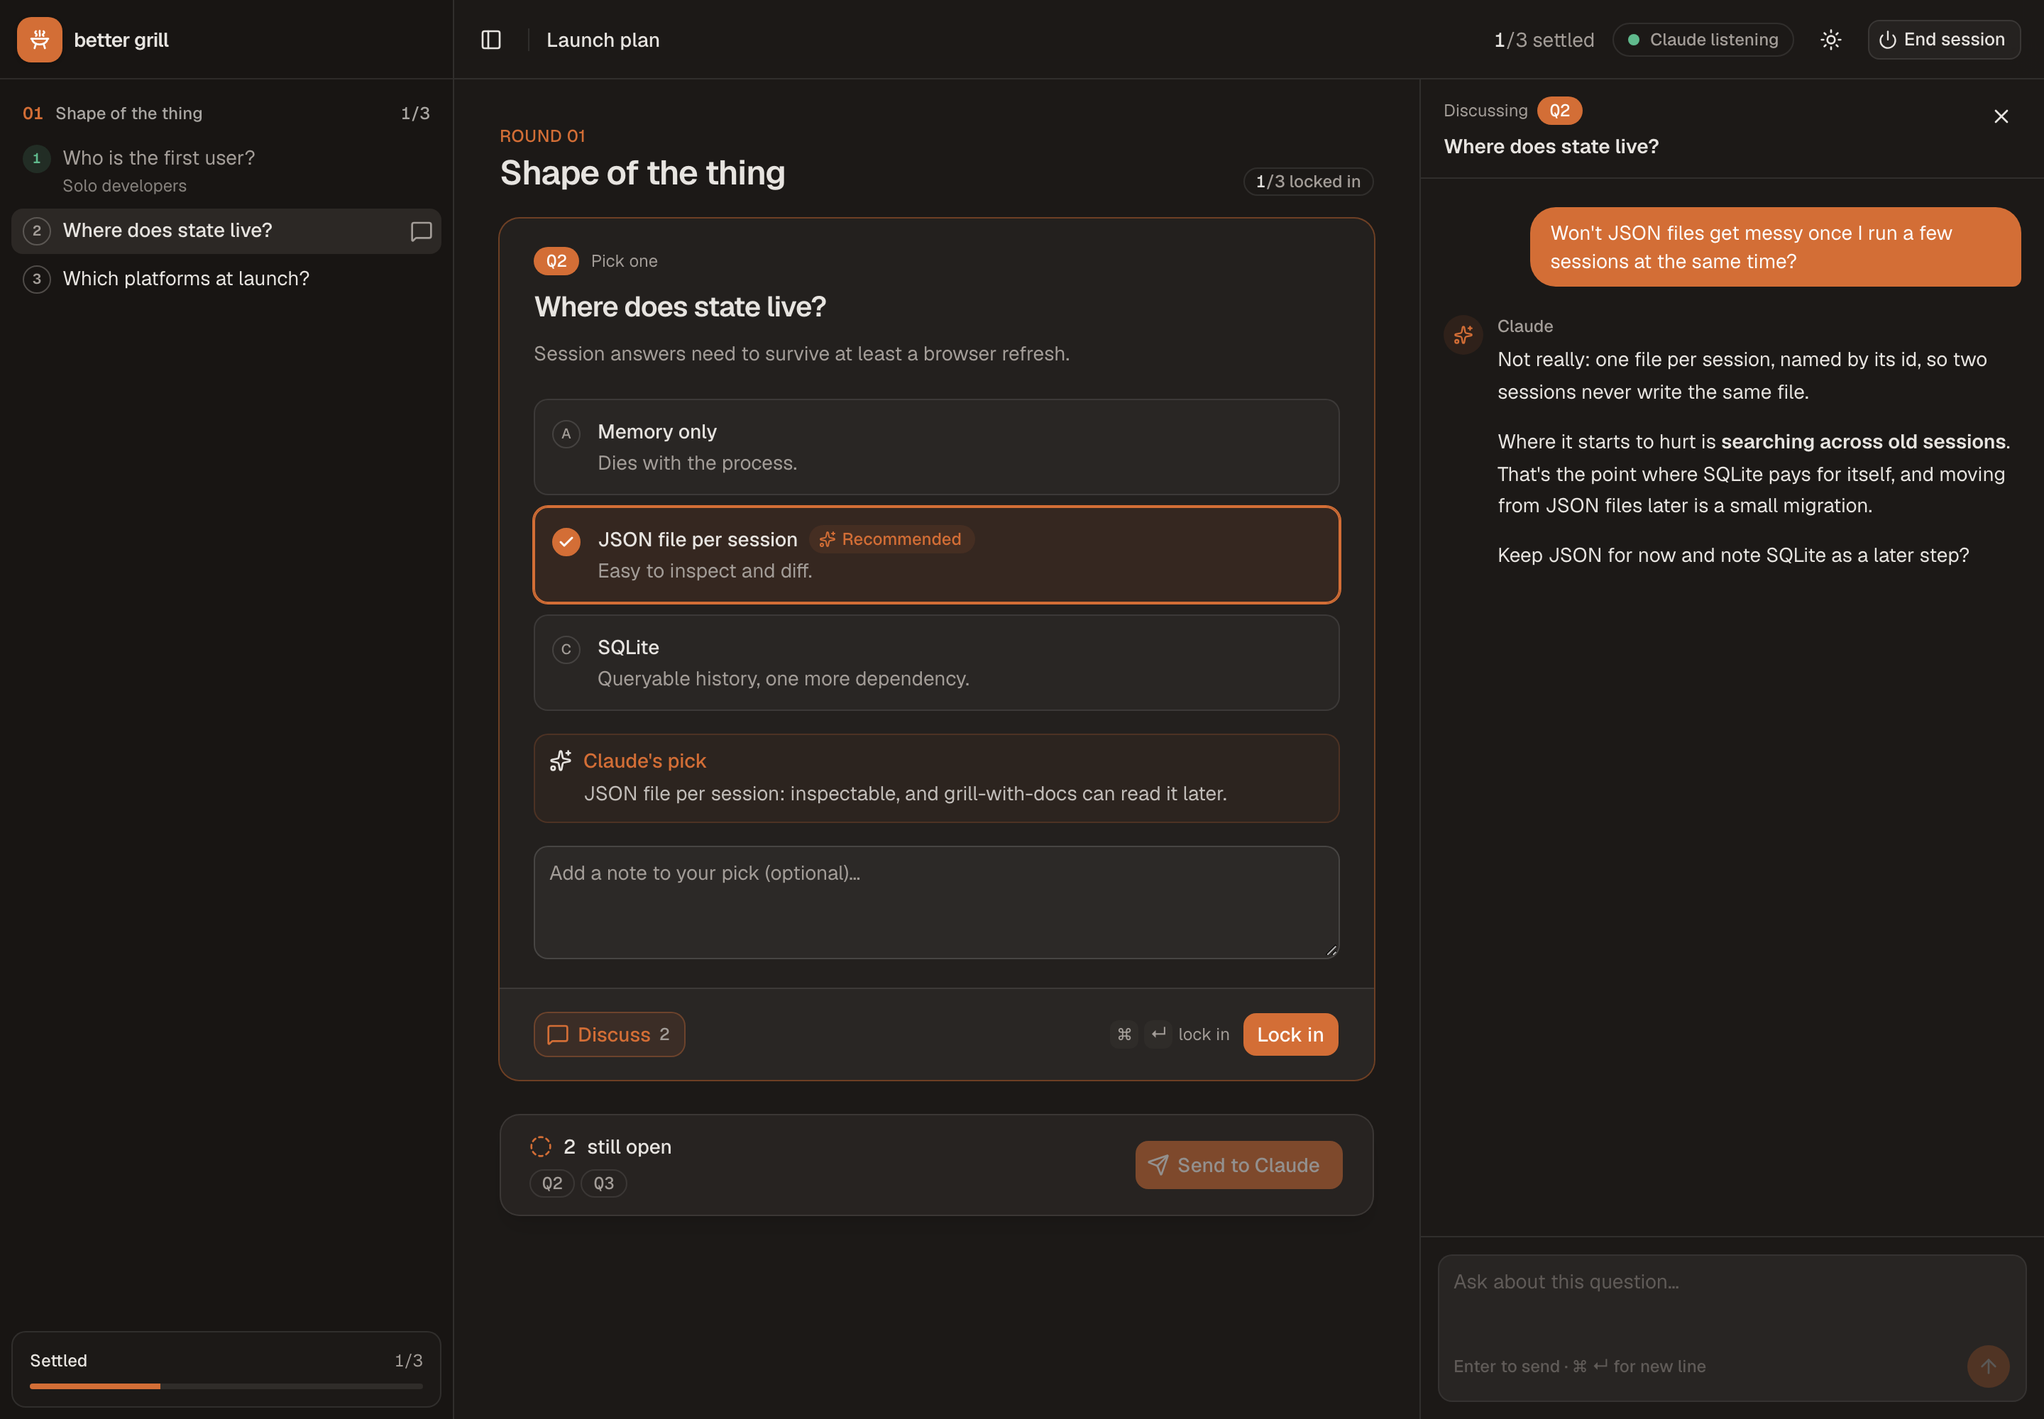
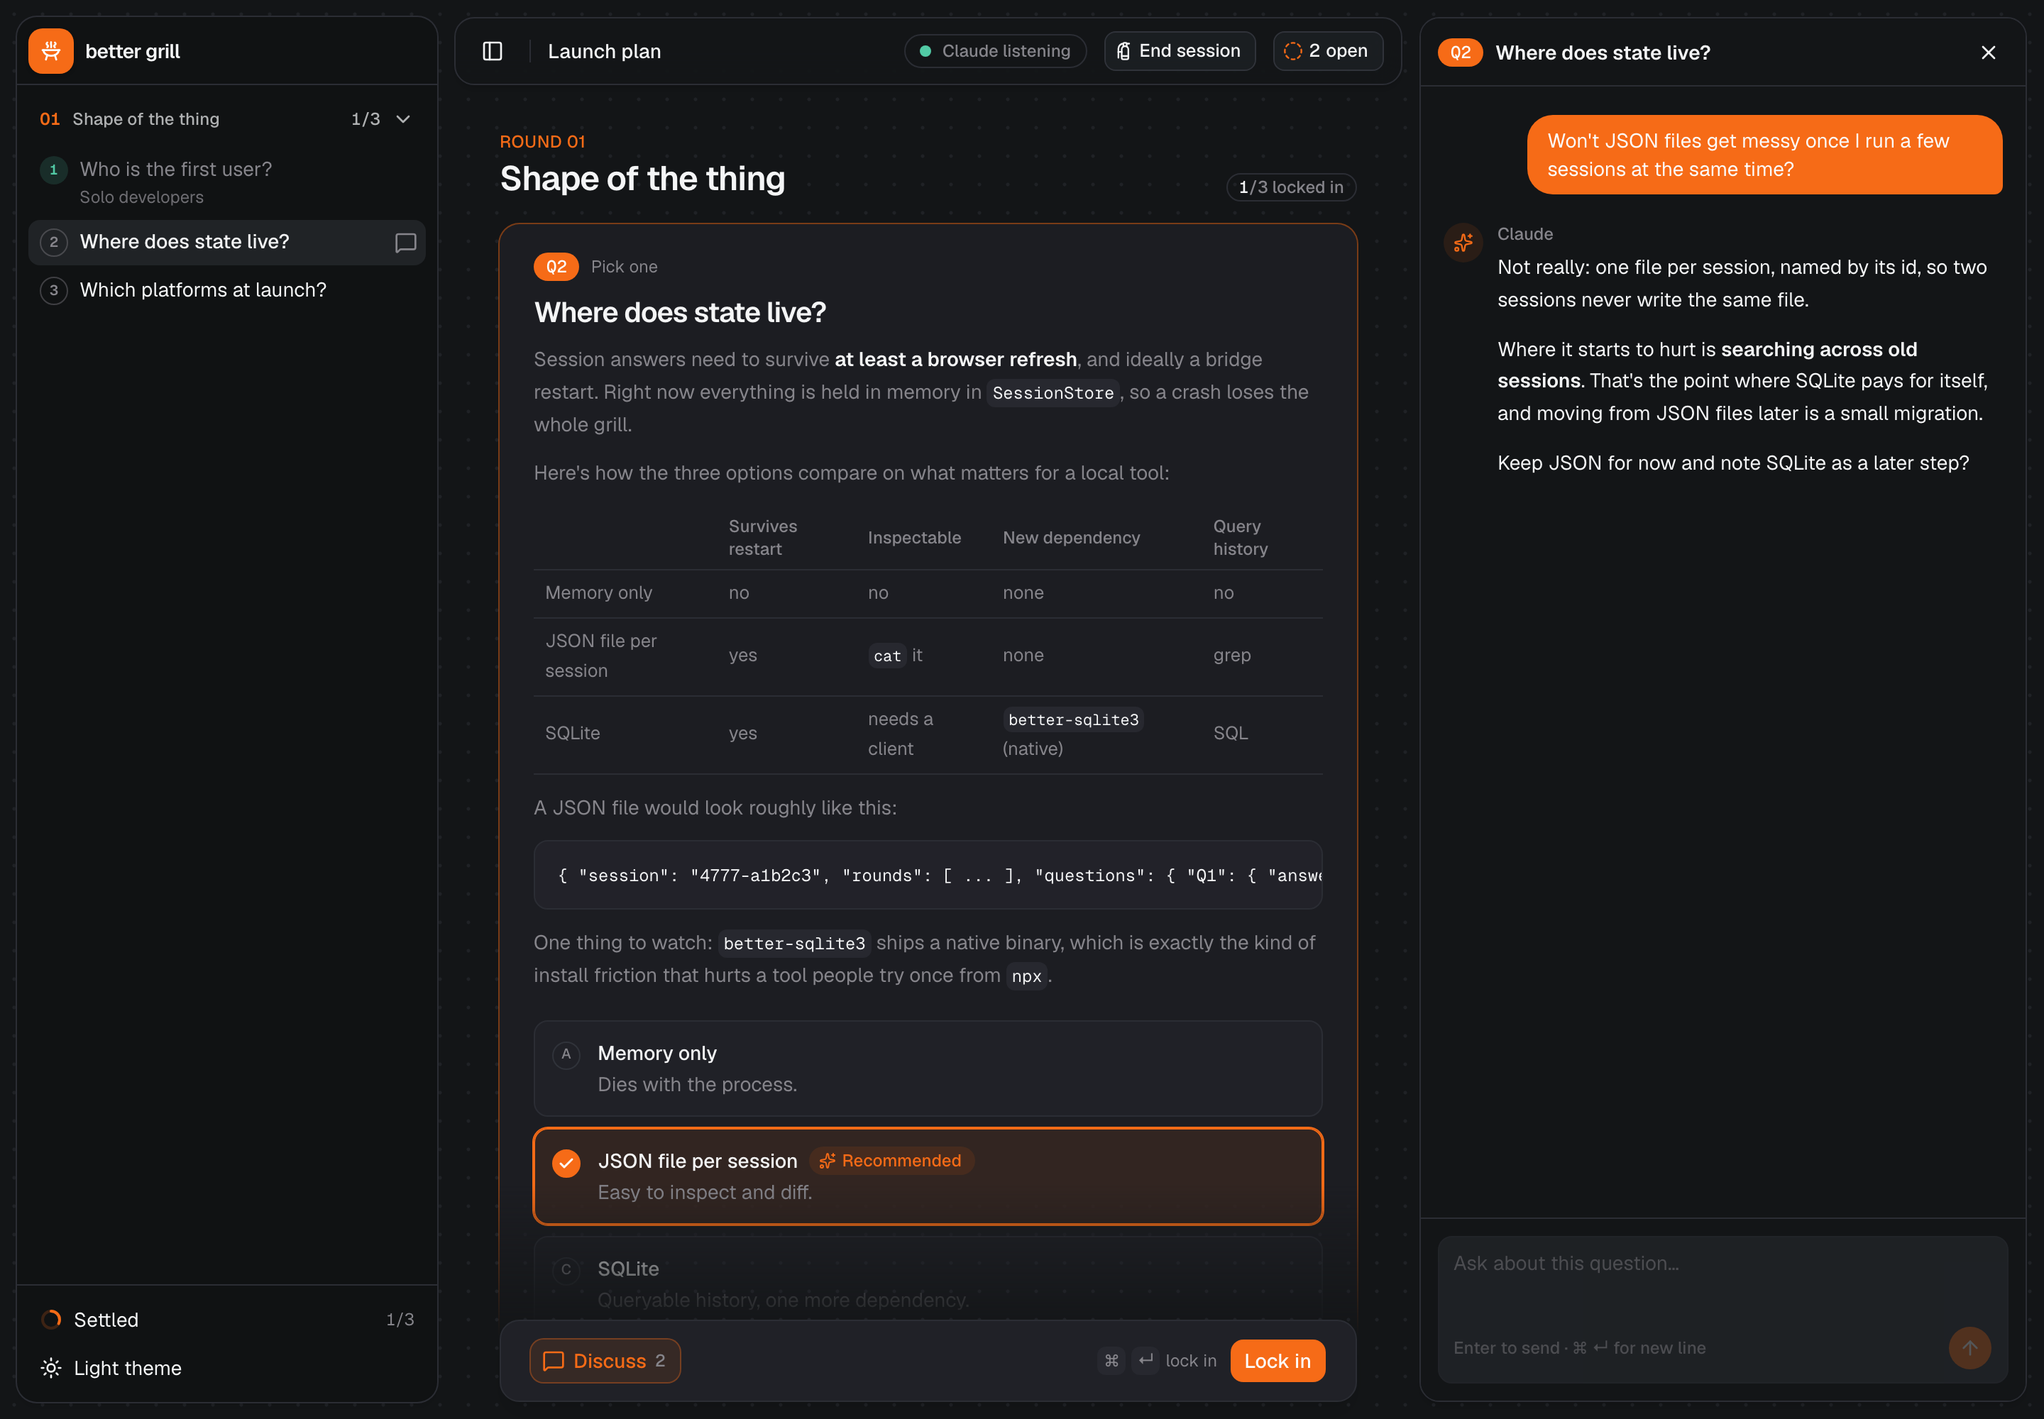
docs: hero image, fresh screenshots, punchier README
- hero.png: the pitch next to the app in a floating window, rendered by
  `pnpm screenshots` from scripts/hero.html with the app's dark tokens.
- round.png and discussion.png retaken on the floating layout.
- README leads with the hero, a quick start and what a grill feels like;
  requirements, the docs variant and how it works follow.

diff --git a/apps/bridge/scripts/hero.html b/apps/bridge/scripts/hero.html
@@ -1,0 +1,211 @@
+<!doctype html>
+<!--
+  README hero, rendered to .github/assets/hero.png by `pnpm screenshots` (scripts/screenshots.ts).
+  The app screenshot comes in as ?shot=<file url>. Colours are the web app's dark tokens.
+-->
+<html lang="en">
+  <head>
+    <meta charset="utf-8" />
+    <title>better grill hero</title>
+    <style>
+      @font-face {
+        font-family: "Geist";
+        src: url("../../web/node_modules/@fontsource-variable/geist/files/geist-latin-wght-normal.woff2") format("woff2");
+        font-weight: 100 900;
+      }
+      @font-face {
+        font-family: "Geist Mono";
+        src: url("../../web/node_modules/@fontsource-variable/geist-mono/files/geist-mono-latin-wght-normal.woff2") format("woff2");
+        font-weight: 100 900;
+      }
+      :root {
+        --background: oklch(0.194 0.005 248);
+        --foreground: oklch(0.97 0.002 265);
+        --card: oklch(0.232 0.01 277);
+        --muted: oklch(0.279 0.013 279);
+        --muted-foreground: oklch(0.62 0.009 290);
+        --primary: oklch(0.69 0.19 45);
+        --border: oklch(0.298 0.013 273);
+        --canvas-dot: oklch(0.27 0.008 265);
+      }
+      * {
+        box-sizing: border-box;
+        margin: 0;
+      }
+      html,
+      body {
+        width: 1280px;
+        height: 640px;
+        overflow: hidden;
+      }
+      body {
+        position: relative;
+        font-family: "Geist", system-ui, sans-serif;
+        color: var(--foreground);
+        background-color: var(--background);
+        background-image: radial-gradient(var(--canvas-dot) 1px, transparent 1.5px);
+        background-size: 20px 20px;
+        -webkit-font-smoothing: antialiased;
+      }
+      /* Heat: a warm glow behind the app, fading into the dots. */
+      .glow {
+        position: absolute;
+        width: 900px;
+        height: 640px;
+        right: -120px;
+        top: 20px;
+        background: radial-gradient(closest-side, oklch(0.69 0.19 45 / 0.34), oklch(0.69 0.19 45 / 0.08) 60%, transparent);
+        filter: blur(20px);
+      }
+      .copy {
+        position: absolute;
+        left: 72px;
+        top: 0;
+        bottom: 0;
+        width: 470px;
+        display: flex;
+        flex-direction: column;
+        justify-content: center;
+        gap: 26px;
+      }
+      .brand {
+        display: flex;
+        align-items: center;
+        gap: 12px;
+        font-size: 22px;
+        font-weight: 600;
+        letter-spacing: -0.02em;
+      }
+      .mark {
+        display: flex;
+        width: 44px;
+        height: 44px;
+        align-items: center;
+        justify-content: center;
+        border-radius: 12px;
+        background: var(--primary);
+        color: white;
+        box-shadow: 0 8px 24px -6px oklch(0.69 0.19 45 / 0.6);
+      }
+      .mark svg {
+        width: 24px;
+        height: 24px;
+      }
+      h1 {
+        font-size: 54px;
+        line-height: 1.02;
+        font-weight: 650;
+        letter-spacing: -0.035em;
+        text-wrap: balance;
+      }
+      h1 em {
+        font-style: normal;
+        color: var(--primary);
+      }
+      .lede {
+        font-size: 19px;
+        line-height: 1.5;
+        color: var(--muted-foreground);
+        text-wrap: pretty;
+      }
+      .install {
+        display: inline-flex;
+        align-self: flex-start;
+        align-items: center;
+        gap: 10px;
+        padding: 11px 16px;
+        border: 1px solid var(--border);
+        border-radius: 12px;
+        background: oklch(0.232 0.01 277 / 0.85);
+        font-family: "Geist Mono", ui-monospace, monospace;
+        font-size: 15px;
+      }
+      .install .prompt {
+        color: var(--primary);
+      }
+      /* The whole app, in a floating window tipped back a little. */
+      .stage {
+        position: absolute;
+        left: 560px;
+        top: 64px;
+        perspective: 2200px;
+      }
+      .window {
+        width: 680px;
+        border: 1px solid var(--border);
+        border-radius: 16px;
+        background: var(--card);
+        overflow: hidden;
+        transform: rotateY(-9deg) rotateX(3deg);
+        transform-origin: left center;
+        box-shadow:
+          0 40px 90px -20px oklch(0 0 0 / 0.7),
+          0 0 0 1px oklch(1 0 0 / 0.03);
+      }
+      .bar {
+        display: flex;
+        gap: 7px;
+        align-items: center;
+        height: 34px;
+        padding: 0 14px;
+        border-bottom: 1px solid var(--border);
+        background: var(--muted);
+      }
+      .bar span {
+        width: 11px;
+        height: 11px;
+        border-radius: 50%;
+        background: oklch(0.4 0.01 275);
+      }
+      .bar p {
+        margin-left: 10px;
+        font-family: "Geist Mono", ui-monospace, monospace;
+        font-size: 12px;
+        color: var(--muted-foreground);
+      }
+      .window img {
+        display: block;
+        width: 100%;
+      }
+    </style>
+  </head>
+  <body>
+    <div class="glow"></div>
+
+    <div class="copy">
+      <div class="brand">
+        <span class="mark">
+          <svg viewBox="0 0 24 24" fill="none" stroke="currentColor" stroke-width="2" stroke-linecap="round" stroke-linejoin="round">
+            <path d="M3 11h18" />
+            <path d="M4 11a8 6 0 0 0 16 0" />
+            <path d="M8 16.2 6.5 21" />
+            <path d="M16 16.2 17.5 21" />
+            <path d="M8 8 C9.1 7.1667 9.1 6.3333 8 5.5 C6.9 4.6667 6.9 3.8333 8 3" />
+            <path d="M12 8 C12.22 7.1 12.22 6.2 12 5.3 C11.78 4.4 11.78 3.5 12 2.6" />
+            <path d="M16 8 C14.9 7.1667 14.9 6.3333 16 5.5 C17.1 4.6667 17.1 3.8333 16 3" />
+          </svg>
+        </span>
+        better grill
+      </div>
+      <h1>Let Claude <em>grill</em> your plan.</h1>
+      <p class="lede">
+        Round after round of sharp questions, each with Claude's pick. Answer, push back in a thread, lock in. Right in your browser,
+        on your Claude Code session.
+      </p>
+      <div class="install"><span class="prompt">&gt;</span> /plugin install better-grill@better-grill</div>
+    </div>
+
+    <div class="stage">
+      <div class="window">
+        <div class="bar"><span></span><span></span><span></span><p>localhost · Launch plan</p></div>
+        <img id="shot" alt="" />
+      </div>
+    </div>
+
+    <script>
+      const img = document.getElementById("shot");
+      img.src = new URLSearchParams(location.search).get("shot");
+      img.onload = () => (document.body.dataset.ready = "");
+    </script>
+  </body>
+</html>

diff --git a/apps/bridge/scripts/screenshots.ts b/apps/bridge/scripts/screenshots.ts
@@ -1,12 +1,13 @@
 /*
  * README screenshots: starts a bridge from the build in skills/better-grill-base/dist,
- * posts the demo rounds and photographs the UI in dark mode into .github/assets.
+ * posts the demo rounds and photographs the UI in dark mode into .github/assets,
+ * then frames the discussion shot in the hero (scripts/hero.html).
  * Run `pnpm screenshots` from the repo root (it builds first).
  */
 import { execFileSync } from "node:child_process";
 import { mkdirSync } from "node:fs";
 import { join } from "node:path";
-import { fileURLToPath } from "node:url";
+import { fileURLToPath, pathToFileURL } from "node:url";
 import { chromium, type Page } from "playwright";
 import type { WaitResponse } from "@better-grill/protocol";
 import { call, parseHandle } from "../src/client.ts";
@@ -72,7 +73,16 @@ try {
   await settle(page);
   await page.screenshot({ path: join(outDir, "discussion.png") });
 
-  console.log(`Saved round.png and discussion.png to ${outDir}`);
+  // Hero: the discussion shot in a floating window next to the pitch.
+  const hero = await browser.newPage({ viewport: { width: 1280, height: 640 }, deviceScaleFactor: 2 });
+  const heroUrl = new URL("./hero.html", import.meta.url);
+  heroUrl.searchParams.set("shot", pathToFileURL(join(outDir, "discussion.png")).href);
+  await hero.goto(heroUrl.href);
+  await hero.waitForSelector("body[data-ready]", { state: "attached" });
+  await hero.evaluate("document.fonts.ready");
+  await hero.screenshot({ path: join(outDir, "hero.png") });
+
+  console.log(`Saved round.png, discussion.png and hero.png to ${outDir}`);
 } finally {
   await browser.close();
   grill("stop", "-s", session);

diff --git a/README.md b/README.md
@@ -1,30 +1,18 @@
-# better-grill
+<p align="center">
+  <img src="https://raw.githubusercontent.com/devbaj-stastny-jakub/better-grill/main/.github/assets/hero.png" alt="better grill: let Claude grill your plan. A browser UI with rounds of questions, Claude's pick on each, and a discussion thread per question.">
+</p>
 
-[![npm](https://img.shields.io/npm/v/better-grill)](https://www.npmjs.com/package/better-grill)
-[![license](https://img.shields.io/npm/l/better-grill)](LICENSE)
-[![node](https://img.shields.io/node/v/better-grill)](https://nodejs.org)
+<p align="center">
+  <a href="https://www.npmjs.com/package/better-grill"><img src="https://img.shields.io/npm/v/better-grill?color=f97316" alt="npm"></a>
+  <a href="LICENSE"><img src="https://img.shields.io/npm/l/better-grill?color=f97316" alt="license"></a>
+  <a href="https://nodejs.org"><img src="https://img.shields.io/node/v/better-grill?color=f97316" alt="node"></a>
+</p>
 
-Grill sessions for Claude Code, in your browser instead of the terminal.
+<p align="center"><b>Claude interviews you about your plan until nothing is left unsaid.<br>You answer in a real UI, not a wall of terminal text.</b></p>
 
-![A grill round in better-grill: one question locked in, the next with Claude's recommended option picked](https://raw.githubusercontent.com/devbaj-stastny-jakub/better-grill/main/.github/assets/round.png)
+---
 
-A grill session is Claude interviewing you about a plan until nothing is left unsaid. It maps the decisions as a tree, asks every question it can answer right now in one round with a recommended answer each, and keeps going until every branch is settled. The method comes from Matt Pocock's [`grilling`](https://github.com/mattpocock/skills) skill; better-grill gives it a proper UI.
-
-Why a browser:
-
-- **Options side by side**, each with a description and Claude's pick marked, instead of a wall of terminal text.
-- **A discussion thread per question.** Push back on one question without derailing the rest; Claude can reword, resolve, drop or add questions from the talk.
-- **Answer at your own pace.** Lock in questions in any order, change your mind, then send the whole round at once.
-- **Runs on your Claude Code session.** Uses your existing subscription. No API key, no hosted service.
-
-## Requirements
-
-- [Claude Code](https://code.claude.com)
-- [Node.js](https://nodejs.org) 20 or newer on your `PATH`
-- The `grilling` skill from [mattpocock/skills](https://github.com/mattpocock/skills). better-grill brings the UI; `grilling` brings the method.
-- For the docs variant, also `domain-modeling` from the same repo.
-
-## Install
+## Quick start
 
 In Claude Code:
 
@@ -33,42 +21,52 @@ In Claude Code:
 /plugin install better-grill@better-grill
 ```
 
-## Usage
-
-In any Claude Code session:
+Then grill anything:
 
 ```
-/better-grill:better-grill <what you want grilled>
+/better-grill:better-grill a CLI that syncs my dotfiles across machines
 ```
 
-Or, to also keep a glossary (`CONTEXT.md`) and ADRs as decisions settle, like `grill-with-docs`:
+Your browser opens on the session, and Claude's first round of questions lands there.
+
+You'll need [Node.js](https://nodejs.org) 20+ and the [`grilling`](https://github.com/mattpocock/skills) skill by Matt Pocock: better-grill brings the UI, `grilling` brings the method.
+
+## What a grill feels like
+
+![A round in better-grill: a long question with a comparison table, Claude's recommended option picked, and the Lock in bar at the bottom](https://raw.githubusercontent.com/devbaj-stastny-jakub/better-grill/main/.github/assets/round.png)
+
+- 🔥 **Rounds of sharp questions.** Claude maps your plan as a tree of decisions and asks everything it can answer right now, one question at a time, with context, trade-offs and tables where they help.
+- 🎯 **Claude's pick on every question.** Take the recommendation, pick another option, write your own answer, or add a note to your pick.
+- 💬 **Push back without derailing.** Every question has its own discussion thread. Argue it out, and Claude rewords, resolves, drops or adds questions from what you agree on.
+- 🔒 **Lock in, then send.** Answer in any order and change your mind freely. When the round is settled, send it all at once and the next round builds on it.
+- ✅ **A summary at the end.** When nothing is open, Claude posts every decision in one place. Confirm it, or say what's wrong and the grilling goes on.
+- ⌨ **Keyboard first.** <kbd>↑</kbd> <kbd>↓</kbd> to walk options, <kbd>Enter</kbd> to lock in, <kbd>D</kbd> to discuss, <kbd>[</kbd> to fold the sidebar.
+
+![A discussion thread open next to the question it is about](https://raw.githubusercontent.com/devbaj-stastny-jakub/better-grill/main/.github/assets/discussion.png)
+
+## Grill with docs
+
+Want the decisions written down as you go? The docs variant also keeps a glossary (`CONTEXT.md`) and ADRs up to date as answers settle, like `grill-with-docs`:
 
 ```
 /better-grill:better-grill-docs <what you want grilled>
 ```
 
-1. Your browser opens on the session. The terminal stays quiet; everything happens in the UI.
-2. Claude posts a round of questions. For each one, pick an option, write your own answer, or both, then **Lock in**.
-3. Not sure about a question? Hit **Discuss** and talk it through. Claude answers in the thread and updates the question when you agree on something.
-4. When every question is locked in, **Send to Claude**. The next round builds on your answers.
-5. When nothing is left open, Claude posts a summary of every decision. Confirm it, or say what's wrong and the grilling continues.
-
-![A discussion thread next to the question it is about](https://raw.githubusercontent.com/devbaj-stastny-jakub/better-grill/main/.github/assets/discussion.png)
-
-Several Claude sessions can grill at the same time; each gets its own browser tab.
+It needs the `domain-modeling` skill from the same [mattpocock/skills](https://github.com/mattpocock/skills) repo.
 
 ## How it works
 
-- Claude Code has no port the browser could call, so better-grill starts a small local **bridge** server for each session.
-- Claude talks to the bridge with a CLI from its Bash tool: it posts rounds, then waits in the background until you send a round or write in a discussion.
-- The bridge never calls Claude or any API. It holds the session state and hands your answers back.
-- It listens on `127.0.0.1` only, rejects requests from other websites, and shuts down on its own after 30 idle minutes.
+- **Runs on your Claude Code session.** It uses your existing subscription: no API key, no hosted service. The UI and its bridge run locally.
+- **A small local bridge per session.** Claude Code has no port a browser could call, so better-grill starts one. Claude posts rounds to it from its Bash tool and waits in the background until you send a round or write in a discussion.
+- **The bridge never calls Claude or any API.** It holds the session state and hands your answers back.
+- **Locked down by default.** It listens on `127.0.0.1` only, rejects requests from other websites, and shuts down on its own after 30 idle minutes.
+- **Several grills at once.** Each Claude session gets its own bridge and browser tab.
 
-Details, security model, CLI reference and known limits: [ARCHITECTURE.md](ARCHITECTURE.md).
+Security model, CLI reference and known limits: [ARCHITECTURE.md](ARCHITECTURE.md).
 
 ## Contributing
 
-Issues and pull requests welcome. Dev setup: [CONTRIBUTING.md](CONTRIBUTING.md).
+Issues and pull requests welcome. Dev setup, demo and screenshots: [CONTRIBUTING.md](CONTRIBUTING.md).
 
 ## License
 

diff --git a/CONTRIBUTING.md b/CONTRIBUTING.md
@@ -66,8 +66,10 @@ Features never import from each other; only `app/` combines them. Theme tokens (
 The README images in `.github/assets/` come from the demo rounds, captured with Playwright in dark mode:
 
 ```sh
-pnpm screenshots  # builds, starts a bridge, posts demo rounds, saves round.png and discussion.png
+pnpm screenshots  # builds, starts a bridge, posts demo rounds, saves round.png, discussion.png and hero.png
 ```
+
+The hero is `apps/bridge/scripts/hero.html` (pitch, brand mark, the app's dark tokens) with the fresh discussion shot framed in a window; edit its copy there.
 
 Rerun it after visible UI changes. First time on a machine, Playwright may ask for `pnpm --filter @better-grill/bridge exec playwright install chromium`.
 
